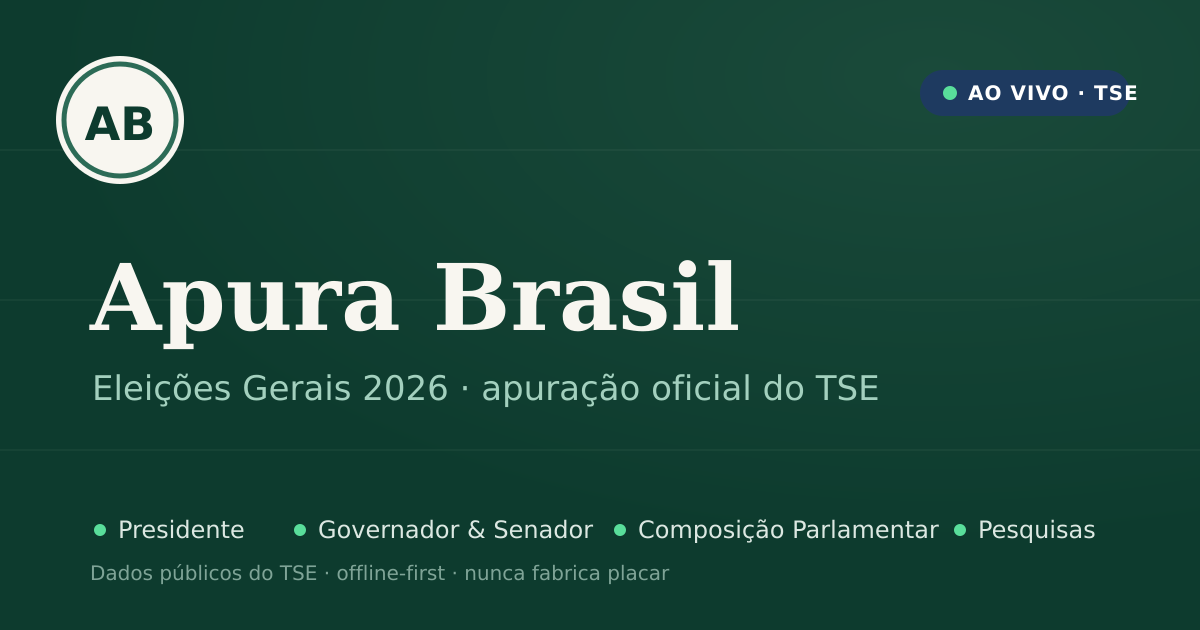
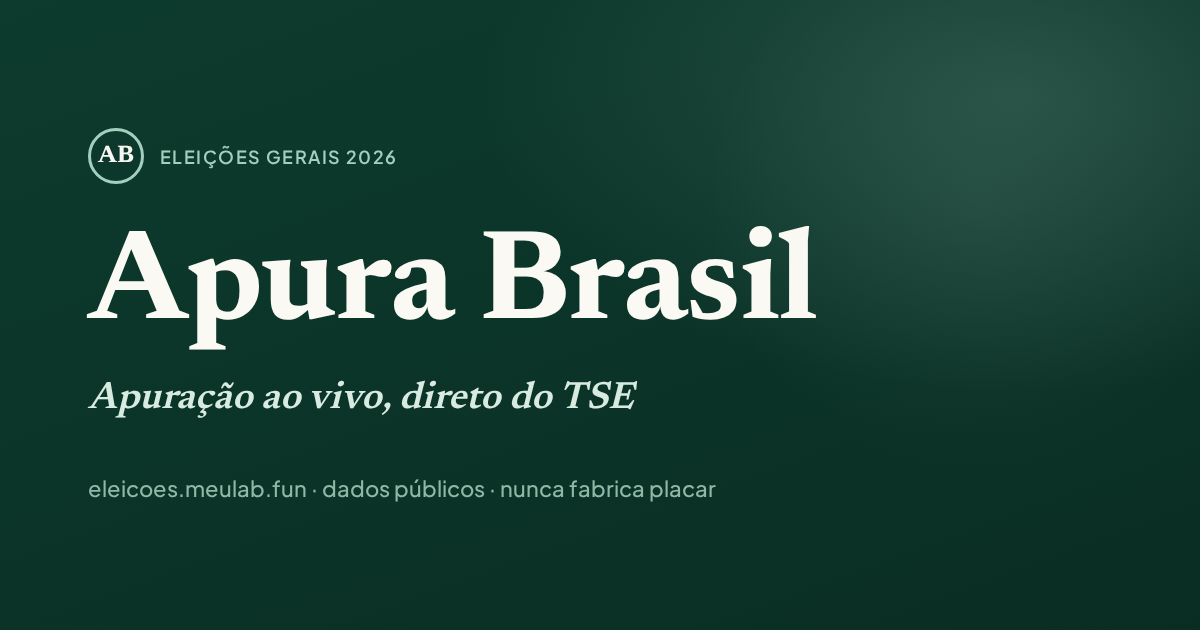
fix: preview de link (OG/WhatsApp) com dominio certo e design melhor
- og:url/og:image/twitter:image apontavam pro dominio antigo
  (varia.meulab.fun); corrigido pro dominio real compartilhado
  (eleicoes.meulab.fun).
- Imagem nova (scripts/og-image.html, renderizada via Playwright): tipografia
  serifada (Newsreader) bem maior e mais legivel em miniatura de WhatsApp,
  sem os pills pequenos que ficavam ilegiveis em thumbnail.
- URL da imagem ganhou ?v=2 pra forcar cache novo tanto no Cloudflare quanto
  no scraper do WhatsApp/Meta (cache deles e por URL exata, nao tem purge
  publico). Conferido ao vivo: cf-cache-status REVALIDATED com o arquivo
  novo, HTML da home nao e cacheado pelo Cloudflare (DYNAMIC).

Claude-Session: https://claude.ai/code/session_01Rg2dhFM4HmxgggjChnMmT3

diff --git a/scripts/og-image.html b/scripts/og-image.html
@@ -1,0 +1,108 @@
+<!doctype html>
+<html lang="pt-BR">
+  <head>
+    <meta charset="UTF-8" />
+    <style>
+      @import url('https://fonts.googleapis.com/css2?family=Newsreader:ital,wght@0,600;0,700&family=Plus+Jakarta+Sans:wght@500;600&display=swap');
+
+      * { margin: 0; padding: 0; box-sizing: border-box; }
+
+      html, body {
+        width: 1200px;
+        height: 630px;
+        overflow: hidden;
+        background: #0d3b2e;
+      }
+
+      .canvas {
+        position: relative;
+        width: 1200px;
+        height: 630px;
+        background:
+          radial-gradient(ellipse 900px 500px at 85% 15%, rgba(163, 208, 190, 0.16), transparent 60%),
+          linear-gradient(160deg, #0d3b2e 0%, #0a2d23 100%);
+        display: flex;
+        flex-direction: column;
+        justify-content: center;
+        padding: 0 88px;
+        font-family: 'Plus Jakarta Sans', sans-serif;
+      }
+
+      .map-accent {
+        position: absolute;
+        right: -60px;
+        top: -80px;
+        width: 560px;
+        height: 560px;
+        opacity: 0.08;
+        background: radial-gradient(circle, #a3d0be 0%, transparent 70%);
+      }
+
+      .mark {
+        display: flex;
+        align-items: center;
+        gap: 16px;
+        margin-bottom: 40px;
+      }
+
+      .mark-badge {
+        width: 56px;
+        height: 56px;
+        border-radius: 999px;
+        border: 3px solid #a3d0be;
+        display: flex;
+        align-items: center;
+        justify-content: center;
+        font-family: 'Newsreader', serif;
+        font-weight: 700;
+        font-size: 24px;
+        color: #f8f6f0;
+      }
+
+      .mark-label {
+        font-size: 18px;
+        font-weight: 600;
+        letter-spacing: 0.08em;
+        text-transform: uppercase;
+        color: #a3d0be;
+      }
+
+      h1 {
+        font-family: 'Newsreader', serif;
+        font-weight: 700;
+        font-size: 128px;
+        line-height: 1;
+        color: #fbf9f3;
+        letter-spacing: -0.01em;
+      }
+
+      .subtitle {
+        margin-top: 28px;
+        font-family: 'Newsreader', serif;
+        font-style: italic;
+        font-weight: 600;
+        font-size: 38px;
+        color: #d7ebe1;
+      }
+
+      .footer-line {
+        margin-top: 56px;
+        font-size: 22px;
+        font-weight: 500;
+        color: #8fb8a6;
+      }
+    </style>
+  </head>
+  <body>
+    <div class="canvas">
+      <div class="map-accent"></div>
+      <div class="mark">
+        <div class="mark-badge">AB</div>
+        <div class="mark-label">Eleições Gerais 2026</div>
+      </div>
+      <h1>Apura Brasil</h1>
+      <p class="subtitle">Apuração ao vivo, direto do TSE</p>
+      <p class="footer-line">eleicoes.meulab.fun · dados públicos · nunca fabrica placar</p>
+    </div>
+  </body>
+</html>

diff --git a/index.html b/index.html
@@ -18,8 +18,9 @@
     <meta property="og:site_name" content="Apura Brasil" />
     <meta property="og:title" content="Apura Brasil · Eleições 2026" />
     <meta property="og:description" content="Apuração eleitoral offline-first com dados públicos do TSE: Presidente, Governador, Senado, Composição Parlamentar e Pesquisas." />
-    <meta property="og:url" content="https://varia.meulab.fun/" />
-    <meta property="og:image" content="https://varia.meulab.fun/og-image.png" />
+    <meta property="og:url" content="https://eleicoes.meulab.fun/" />
+    <meta property="og:image" content="https://eleicoes.meulab.fun/og-image.png?v=2" />
+    <meta property="og:image:type" content="image/png" />
     <meta property="og:image:width" content="1200" />
     <meta property="og:image:height" content="630" />
     <meta property="og:image:alt" content="Apura Brasil, painel de apuração das Eleições Gerais 2026" />
@@ -29,7 +30,7 @@
     <meta name="twitter:card" content="summary_large_image" />
     <meta name="twitter:title" content="Apura Brasil · Eleições 2026" />
     <meta name="twitter:description" content="Apuração eleitoral offline-first com dados públicos do TSE." />
-    <meta name="twitter:image" content="https://varia.meulab.fun/og-image.png" />
+    <meta name="twitter:image" content="https://eleicoes.meulab.fun/og-image.png?v=2" />
   </head>
   <body>
     <div id="root"></div>
